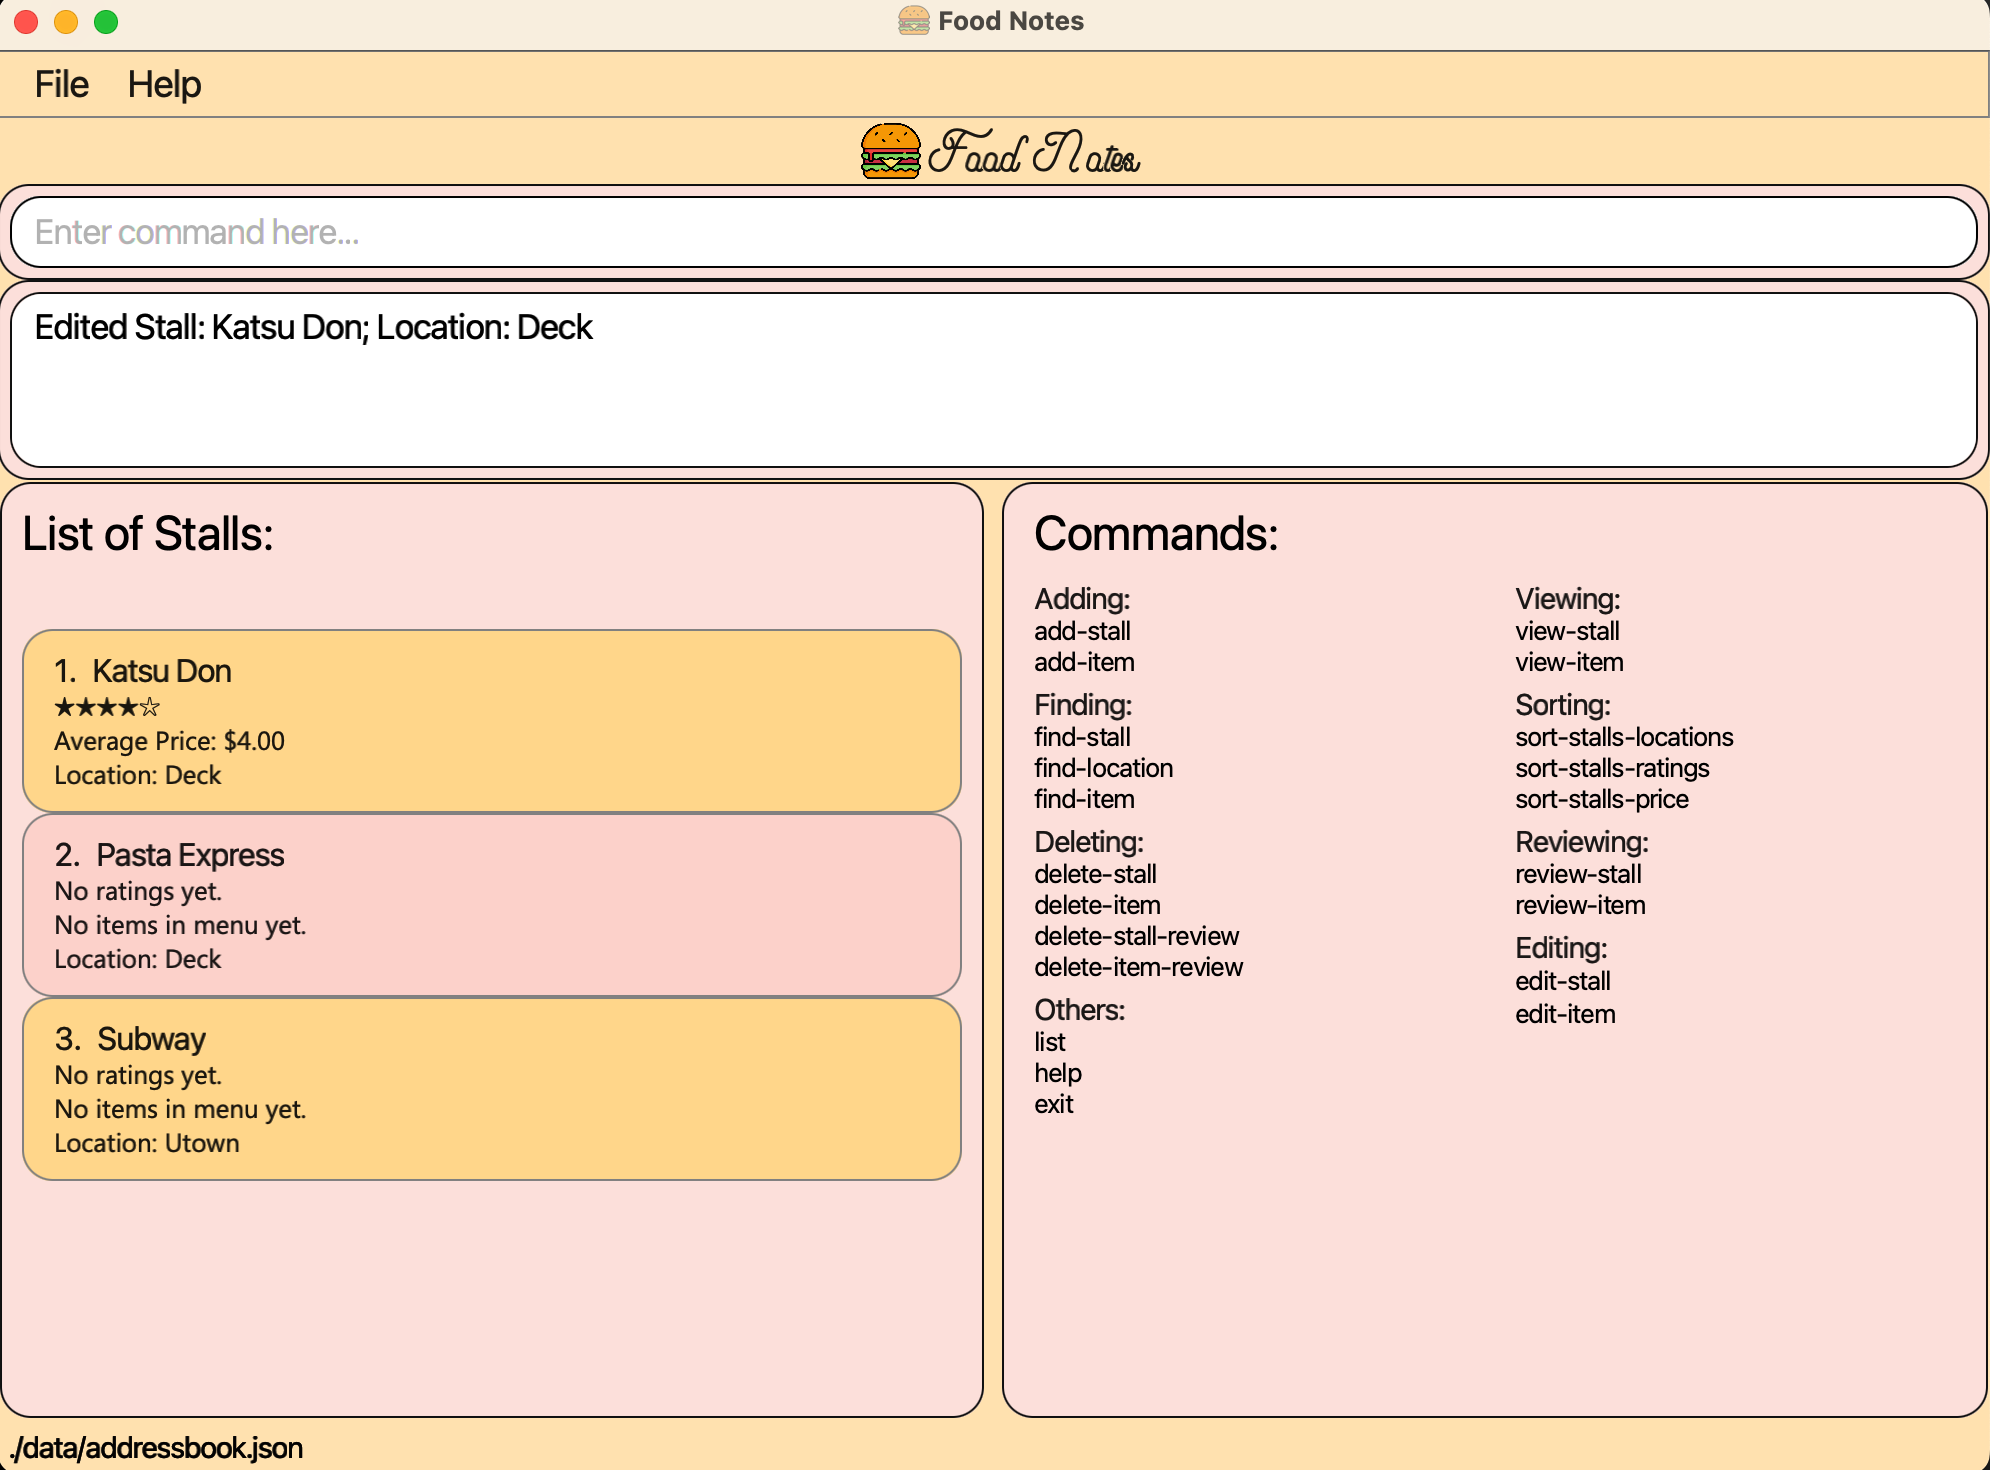
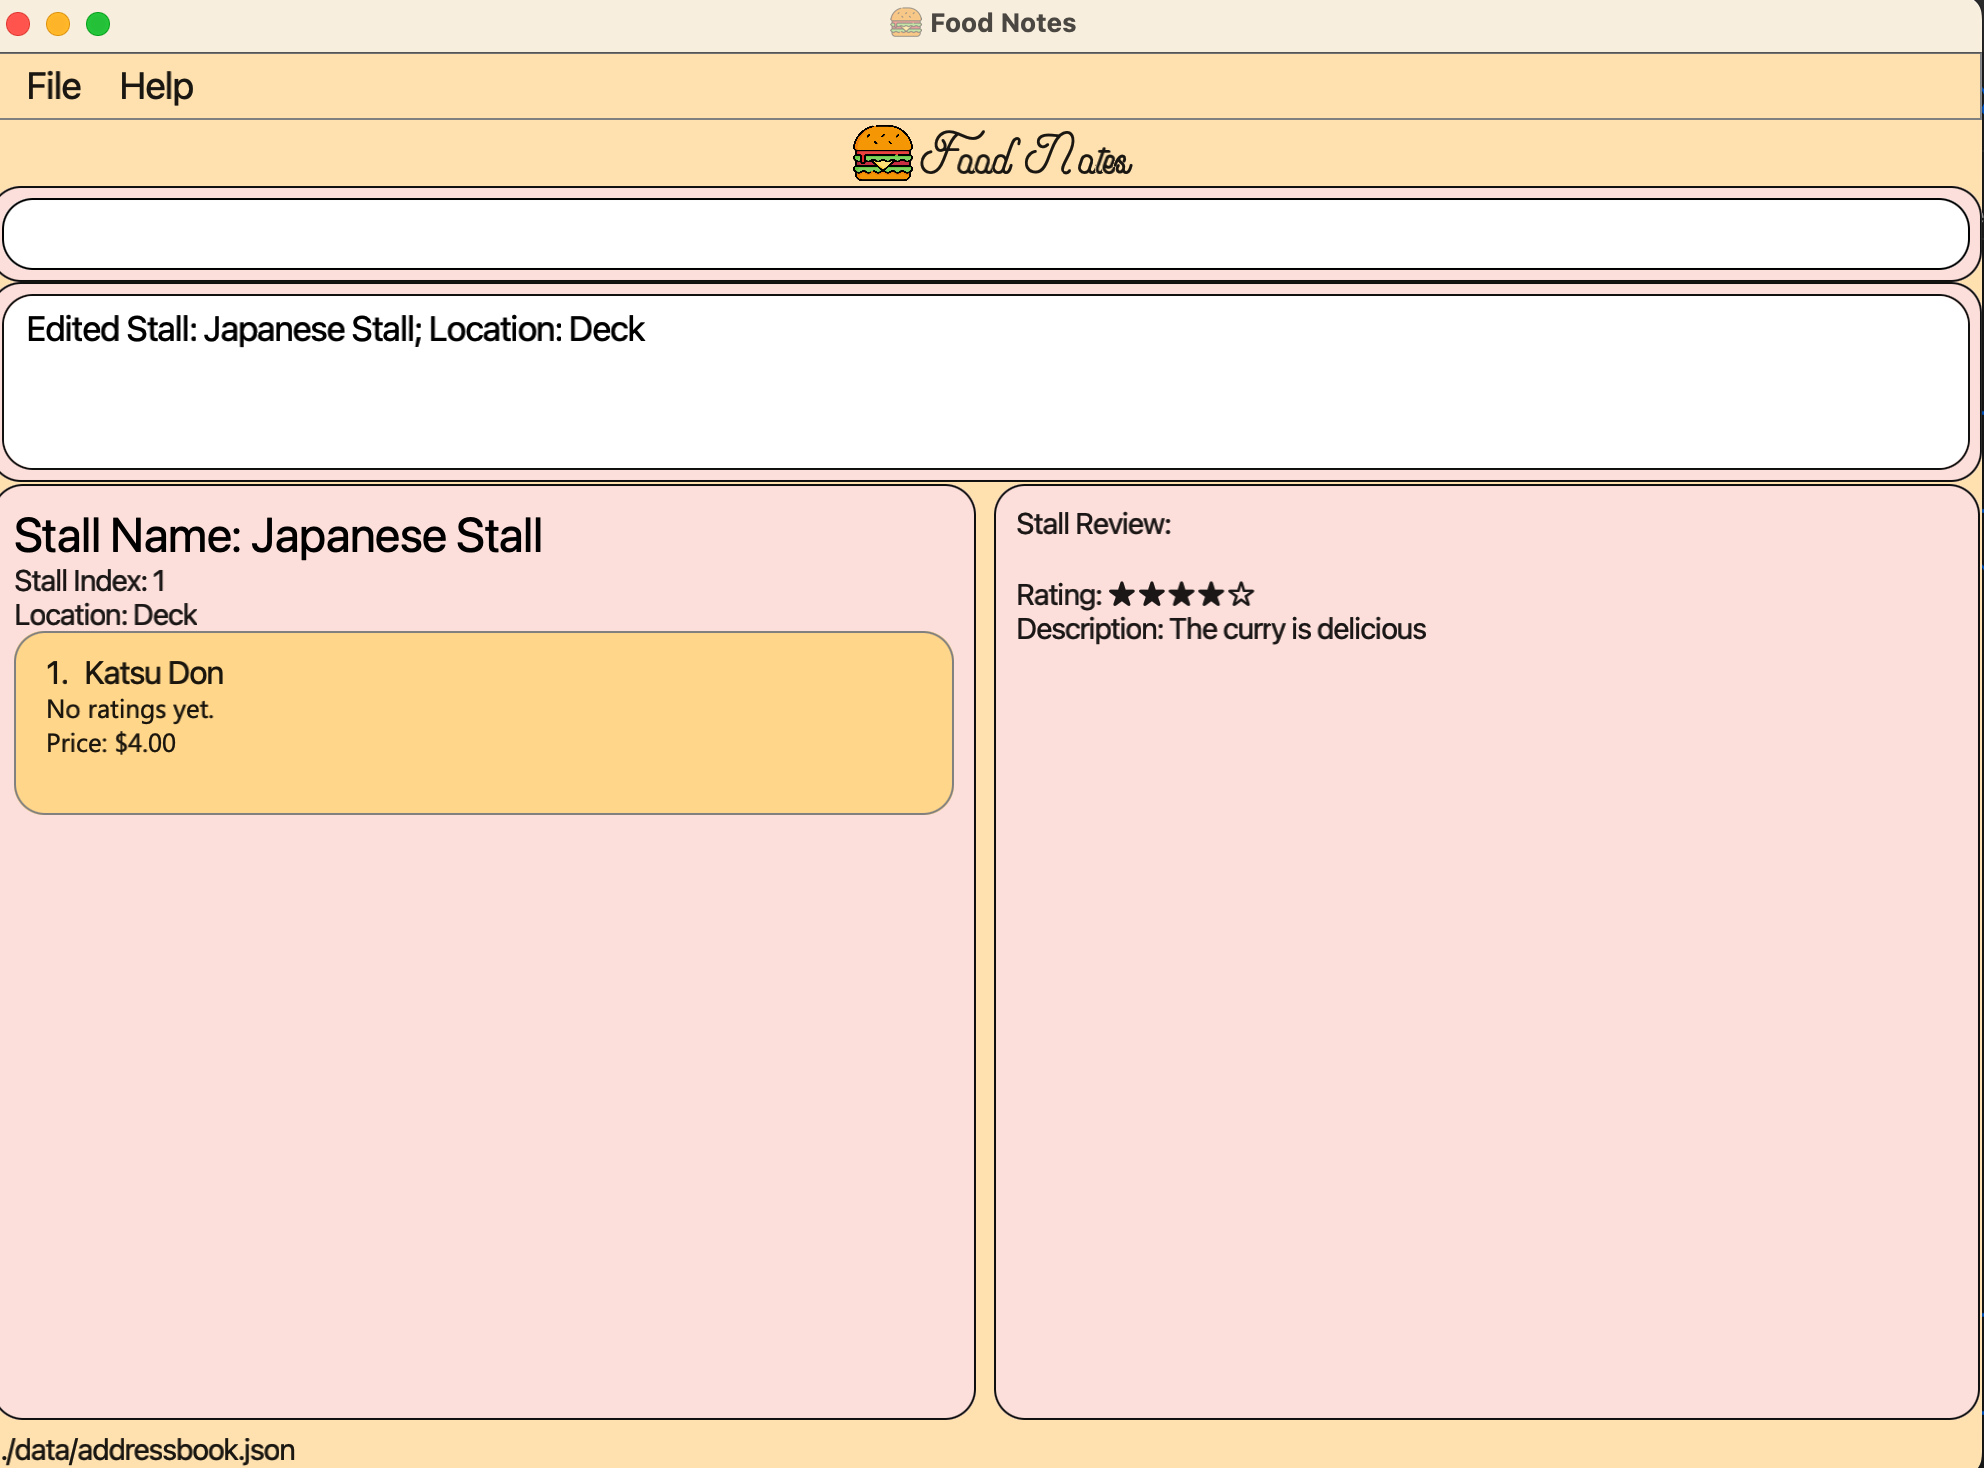
UG edits

diff --git a/docs/UserGuide.md b/docs/UserGuide.md
@@ -354,7 +354,7 @@ You can use this command to edit existing stall, and change either the name, loc
 
 Editing the name and location of the first stall from the list:
 
-1. Type `edit-stall s/1 n/Katsu Don l/Deck` into the *Command Box*.
+1. Type `edit-stall s/1 n/Japanese Stall l/Deck` into the *Command Box*.
 1. Press `Enter` to execute.
 
 Outcome:
@@ -379,7 +379,7 @@ You can use this command to review an existing stall, and add your own rating an
 
 Reviewing the stall:
 
-1. Type `review-stall s/2 r/3 d/Ambience is great` into the *Command Box*.
+1. Type `review-stall s/2 r/5 d/Ambience is great` into the *Command Box*.
 1. Press `Enter` to execute.
 
 Outcome:
@@ -388,7 +388,7 @@ Outcome:
 1. You have now reviewed the specific stall from the list, and the star ratings will be reflected.
 </div>
 
-![ListOutcome](images/userGuide/reviewStallOutcome.png)
+![ListOutcome](images/userGuide/stallReviewOutcome.png)
 
 ### 4.2.7 Deleting a stall review: `delete-stall-review`
 
